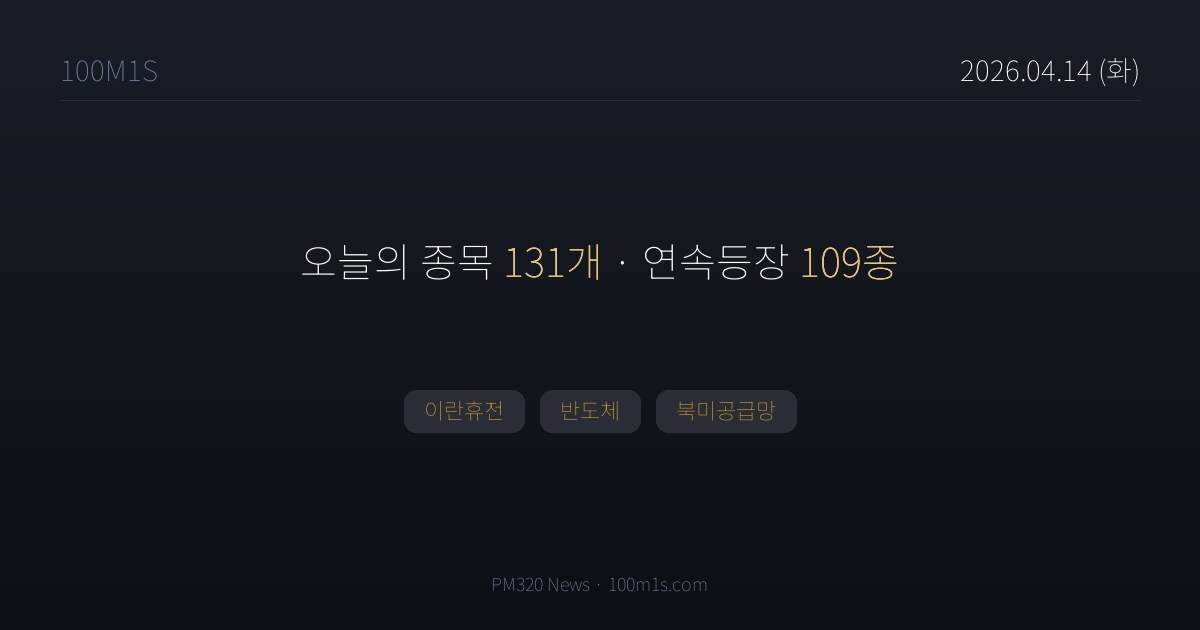
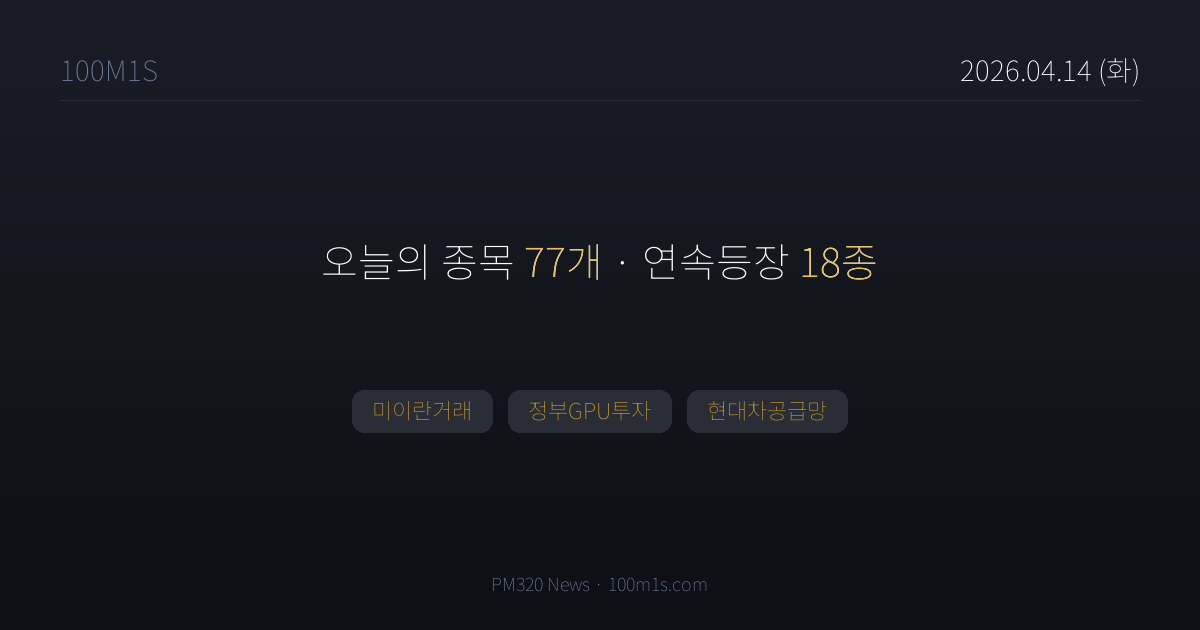
chore(news): 2026-04-14T11:48 pipeline

Changed region(s): [[0.2775, 0.6032, 0.7092, 0.6937], [0.2467, 0.3921, 0.4625, 0.4524], [0.6783, 0.3921, 0.74, 0.4524]]

diff --git a/news/2026-04-14.html b/news/2026-04-14.html
@@ -3,8 +3,8 @@
 <head>
 <meta charset="UTF-8">
 <title>4월 14일 (화) 뉴스 — 100M1S</title>
-<meta property="og:title" content="4월 14일 (화) · 종목 131개">
-<meta property="og:description" content="이란휴전, 반도체, 북미공급망">
+<meta property="og:title" content="4월 14일 (화) · 종목 77개">
+<meta property="og:description" content="미이란거래, 정부GPU투자, 현대차공급망">
 <meta property="og:image" content="https://100m1s.com/og/2026-04-14.png">
 <meta property="og:image:width" content="1200">
 <meta property="og:image:height" content="630">
